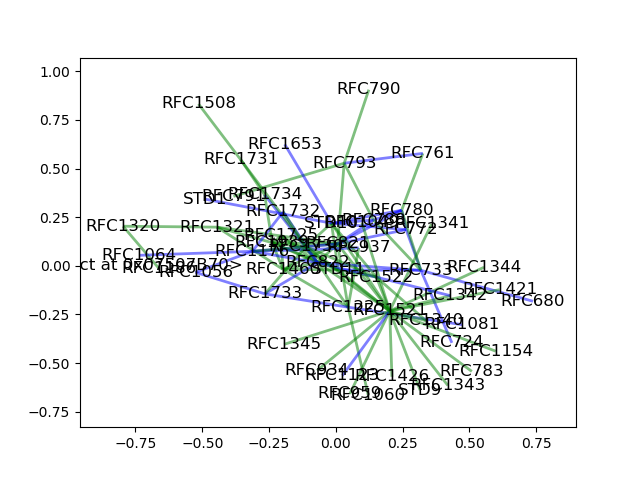
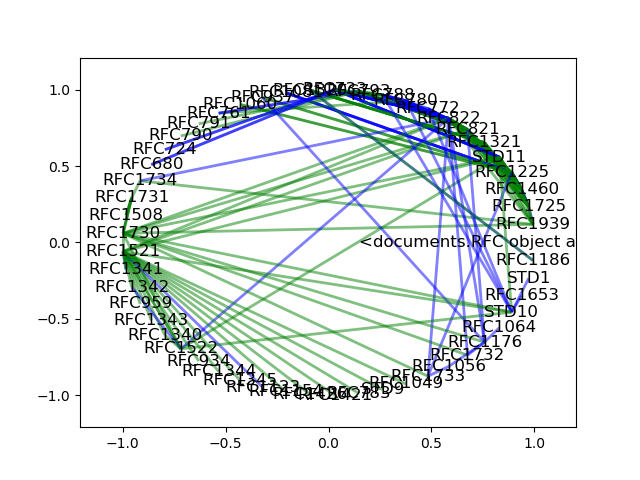
Refactored code, added persistent disk cache for documents.

diff --git a/Code/viz/rfc_graph.py b/Code/viz/rfc_graph.py
@@ -1,44 +1,34 @@
 # TODO:
 #      Very slow
-#           - Twisted (framework)?
-#           - Futures!
-#           - BatchRequest
-#           - Cache stuff
+#           - Cache stuff in memory/disk
+#           - Calls still used to get the relationships between docs. Need to cache these.
 #      Better structure for docs, colors and labels
 #           - Make interesting and useful
 #      Is the graph accurate?
 #      Is it a tree?
-#      Multiple edges between same pair (different relationships)
-#           - Use reference object instead of just giving it the vertices?
-#      Better name for future_get_doc_url()
 #      Smarten up code
 #           - references used too much in future_get_related_docs()
 #           - is there a way to recursively call asynchronously?
-
+#           - Missing multiple references between the same pair (RFC1725 is both refold and obs)
+#           - Lambda func for passing args to callback?
 import requests as rq
 import networkx as nx
 import matplotlib.pyplot as plt
 import documents as doc
 from requests_futures.sessions import FuturesSession
-
+import _pickle as pickle
 
 base = 'https://datatracker.ietf.org'
-# Used to store what docs have already been created
 doc_cache = {}
-target_cache = {}
-# Used to pass data between future_get_related_docs() and future_get_doc_url()
-reference_cache = {}
 cached_calls = 0
+uncached_calls = 0
 session = FuturesSession(max_workers=50)
 
 
-def future_get_doc_url(sess, resp):
+def get_target_doc(sess, resp):
 
     # N.B. the data stored in the field 'name' in the JSON is actually the RFC Number and thus a unique ID.
     # The name of the draft that became the RFC is contained within the URL. This can be identical to the RFC Number
-
-    # print('FUTURE: ', resp)
-    # print('FUTURE RESPONSE: ', resp.json())
 
     body = resp.json().get('objects')[0]
     doc_id = body.get('name').upper()
@@ -46,21 +36,14 @@ def future_get_doc_url(sess, resp):
     split_url = doc_url.split('/')
     doc_name = split_url[-2]
 
-    # print('FUTURE ID: ', doc_id)
-    # print('FUTURE NAME: ', doc_name)
-    # print('FUTURE URL: ', doc_url)
-
     new_doc = doc.RFC(doc_id)
     new_doc.set_draft_url(doc_url)
     new_doc.set_draft_name(doc_name)
 
     doc_cache[new_doc.id] = new_doc
-    reference_cache[new_doc.id].set_target(new_doc)
-
 
 def get_doc_url(rfc_num):
-
-    session.get(base + '/api/v1/doc/docalias/?name=' + rfc_num, background_callback=future_get_doc_url)
+    session.get(base + '/api/v1/doc/docalias/?name=' + rfc_num, background_callback=get_target_doc)
 
     resp = rq.get(base + '/api/v1/doc/docalias/?name=' + rfc_num)
     body = resp.json().get('objects')[0]
@@ -71,7 +54,6 @@ def get_doc_url(rfc_num):
 def get_name(doc_url):
     resp = rq.get(base + doc_url)
     body = resp.json()
-    # print('GET NAME: ', body.get('name'))
 
     return body.get('name')
 
@@ -91,107 +73,61 @@ def get_doc(rfc_num):
     return new_doc
 
 
-def future_find_related_docs(G, root, level):
-    global cached_calls
-    futures = []
-
-    if level == 0:
-        return
-
-    references = []
-    relationships = get_relationships(root.draft_name)
-
-    # print(relationships)
-
-    # Make a bunch of async requests
-
-    for relationship in relationships:
-        new_reference = doc.Reference()
-        new_reference.set_source(root)
-
-        type_split = relationship.get('relationship').split('/')
-        new_reference.set_type(type_split[-2])
-
-        target_split = relationship.get('target').split('/')
-        target_doc_id = target_split[-2].upper()
-
-        if target_doc_id in doc_cache:
-            print(target_doc_id, " is cached")
-            target_doc = doc_cache[target_doc_id]
-            new_reference.set_target(target_doc)
-            cached_calls = cached_calls + 1
-        else:
-            print(target_doc_id, " is not cached")
-            # target_doc = get_doc(target_doc_id)
-
-            target_cache[target_doc_id] = doc.RFC(target_doc_id)
-            reference_cache[target_doc_id] = new_reference
-            futures.append(session.get(base + '/api/v1/doc/docalias/?name=' + target_doc_id,
-                                       background_callback=future_get_doc_url))
-
-    # Now wait for all of them to complete, which should roughly be at the same time
-    for future in futures:
-        result = future.result()
-        # print("RESULT: ", result.json())
-        body = result.json().get('objects')[0]
-        finished_target_id = body.get('name').upper()
-        # print('Finished reference: ', reference_cache[finished_target_id].type)
-        references.append(reference_cache[finished_target_id])
-
-    for reference in references:
-        if reference.type == 'refold':
-                G.add_edge(reference.source.id, reference.target.id, relType=reference.type, color='g')
-        else:
-            G.add_edge(reference.source.id, "blah " + reference.target.id, relType=reference.type, color='b')
-
-        find_related_docs(G, reference.target, level - 1)
+def add_reference(G, reference):
+    if reference.type == 'refold':
+        G.add_edge(reference.source.id, reference.target.id, relType=reference.type, color='g', style='dashdot')
+    else:
+        G.add_edge(reference.source.id, reference.target.id, relType=reference.type, color='b', style='dashdot')
 
 
 def find_related_docs(G, root, level):
     global cached_calls
+    global uncached_calls
+    futures = []
+    uncompleted_references = []
+    references = []
 
     if level == 0:
         return
 
-    references = []
     relationships = get_relationships(root.draft_name)
-
-    print(relationships)
-
-    ## Is there some way to get the info for the target docs with batches of requests?
 
     for relationship in relationships:
         new_reference = doc.Reference()
         new_reference.set_source(root)
 
+        type_split = relationship.get('relationship').split('/')
+        new_reference.set_type(type_split[-2])
+
         target_split = relationship.get('target').split('/')
         target_doc_id = target_split[-2].upper()
 
         if target_doc_id in doc_cache:
-            print(target_doc_id, " is cached")
             target_doc = doc_cache[target_doc_id]
+            new_reference.set_target(target_doc)
+            references.append(new_reference)
+
             cached_calls = cached_calls + 1
         else:
-            print(target_doc_id, " is not cached")
-            target_doc = get_doc(target_split[-2].upper())
-            doc_cache[target_doc.id] = target_doc
+            uncompleted_references.append((new_reference, target_doc_id))
 
-        new_reference.set_target(target_doc)
+            # If the document hasn't been cached, make an async request to make and cache it
+            futures.append(session.get(base + '/api/v1/doc/docalias/?name=' + target_doc_id,
+                                       background_callback=get_target_doc))
 
-        type_split = relationship.get('relationship').split('/')
-        new_reference.set_type(type_split[-2])
+            uncached_calls = uncached_calls + 1
 
-        references.append(new_reference)
+    # Now wait for all of async requests to complete, which should roughly be at the same time
+    for future in futures:
+        future.result()
 
-    reference_cache.clear()
+    for reference in uncompleted_references:
+        target_doc_id = reference[1]
+        reference[0].set_target(doc_cache[target_doc_id])
+        references.append(reference[0])
 
     for reference in references:
-
-        if reference.type == 'refold':
-                G.add_edge(reference.source.id, reference.target.id, relType=reference.type, color='g')
-        else:
-            G.add_edge(reference.source.id, reference.target.id, relType=reference.type, color='b')
-
+        add_reference(G, reference)
         find_related_docs(G, reference.target, level - 1)
 
 
@@ -201,7 +137,9 @@ def draw_graph(G):
     for node in G.nodes:
         labels[node] = node
 
-    pos = nx.spring_layout(G, k=0.2, iterations=20)
+    # pos = nx.spring_layout(G, k=0.2, iterations=20)
+    pos = nx.shell_layout(G)
+    # pos = nx.circular_layout(G)
     nx.draw_networkx_edges(G, pos, G.edges(), width=2, alpha=0.5, edge_color=nx.get_edge_attributes(G,'color').values())
     nx.draw_networkx_labels(G, pos, labels, node_size=50)
     plt.savefig('graph.png')
@@ -210,7 +148,13 @@ def draw_graph(G):
 
 
 def main():
-    G = nx.Graph()
+    global doc_cache
+
+    doc_cache_file = open('docs.pickle', 'rb')
+    doc_cache = pickle.load(doc_cache_file)
+    doc_cache_file.close()
+
+    G = nx.MultiGraph()
 
     rfc_num = 'RFC' + input('Enter the requested RFC number: ')
     deg_of_separation = input('Enter the degree of separation: ')
@@ -223,15 +167,18 @@ def main():
     print('\n' + ('=' * len(root_doc.draft_name)))
     print(root_doc.draft_name)
     print(('=' * len(root_doc.draft_name)) + '\n')
-    print('Building graph...')
 
-    future_find_related_docs(G, root_doc, int(deg_of_separation))
+    print('Building graph...')
+    find_related_docs(G, root_doc, int(deg_of_separation))
 
     print('Drawing graph...')
-
     draw_graph(G)
+
+    doc_cache_file = open('docs.pickle', 'wb')
+    pickle.dump(doc_cache, doc_cache_file, protocol=-1)
+    doc_cache_file.close()
 
 main()
 
-total_calls = cached_calls + len(doc_cache.keys())
+total_calls = cached_calls + uncached_calls
 print("total calls: ", total_calls, " calls saved: ", cached_calls, " ", (cached_calls/total_calls)*100, "%")
